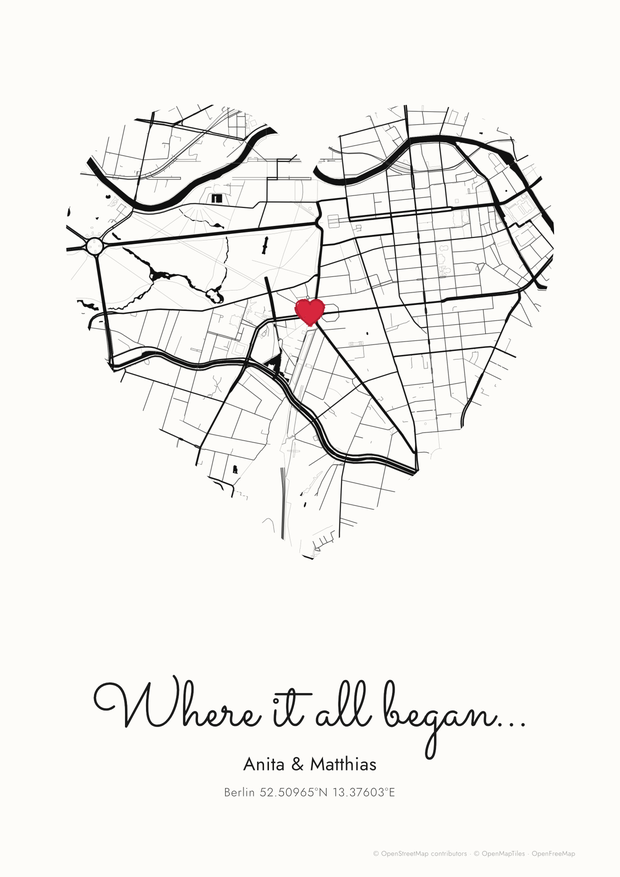
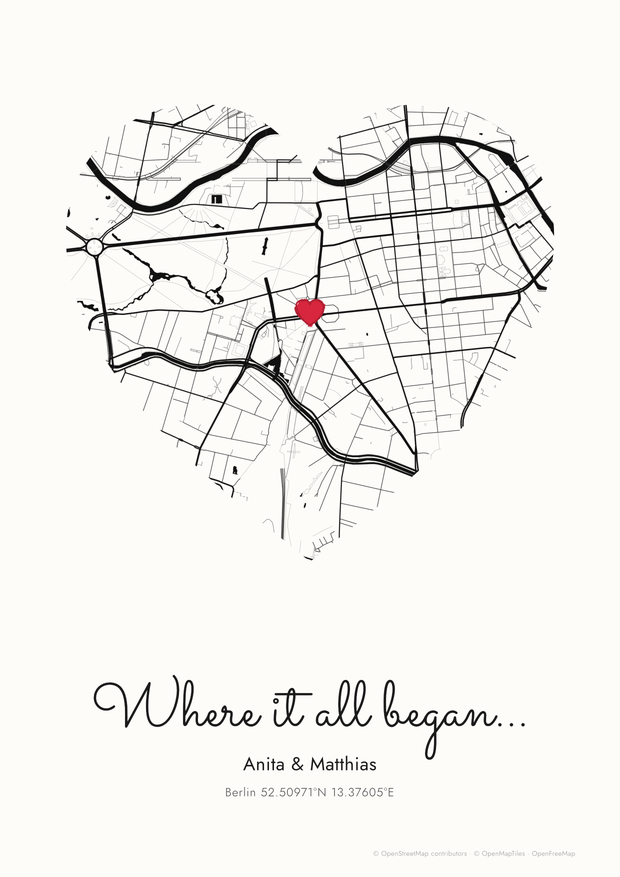
Use 52.509711, 13.376046 for the Potsdamer Platz example
Updates the "Berlin, Potsdamer Platz" sample location and regenerates
the README picture, which now reads "Berlin 52.50971°N 13.37605°E".

Claude-Session: https://claude.ai/code/session_011gyTsra1ZN3XvcPJ3oDNa6

diff --git a/src/domain/defaults.ts b/src/domain/defaults.ts
@@ -131,8 +131,8 @@ export const EXAMPLE_LOCATIONS: ExampleLocation[] = [
   {
     label: 'Berlin, Potsdamer Platz',
     location: {
-      latitude: 52.509652,
-      longitude: 13.37603,
+      latitude: 52.509711,
+      longitude: 13.376046,
       displayName: 'Potsdamer Platz, Berlin, Germany',
       name: 'Potsdamer Platz',
       city: 'Berlin',

diff --git a/README.md b/README.md
@@ -4,7 +4,7 @@ A single-page app for creating a personalised **“where it all began…”** ma
 the place your story started, frame it in a heart (or another shape), add your names and
 download a print-ready PNG, PDF or SVG.
 
-![Example poster: black-and-white map of Berlin around Potsdamer Platz in a heart, a red heart marker, “Where it all began…”, “Anita & Matthias” and “Berlin 52.50965°N 13.37603°E”](docs/example-poster.png)
+![Example poster: black-and-white map of Berlin around Potsdamer Platz in a heart, a red heart marker, “Where it all began…”, “Anita & Matthias” and “Berlin 52.50971°N 13.37605°E”](docs/example-poster.png)
 
 ## Features
 
